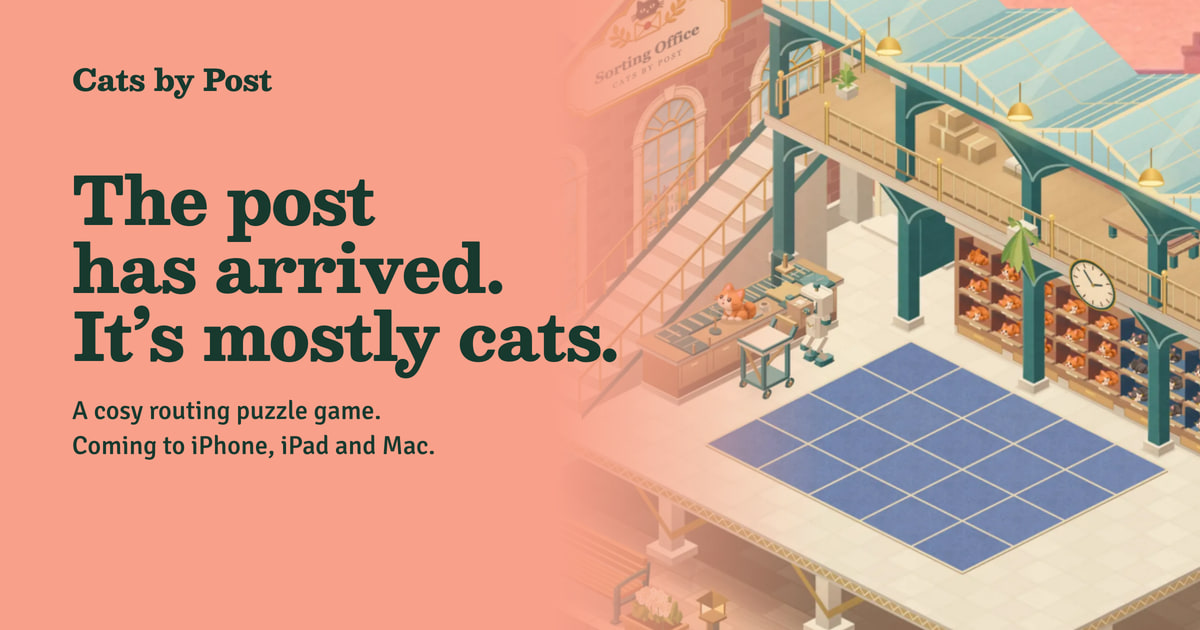
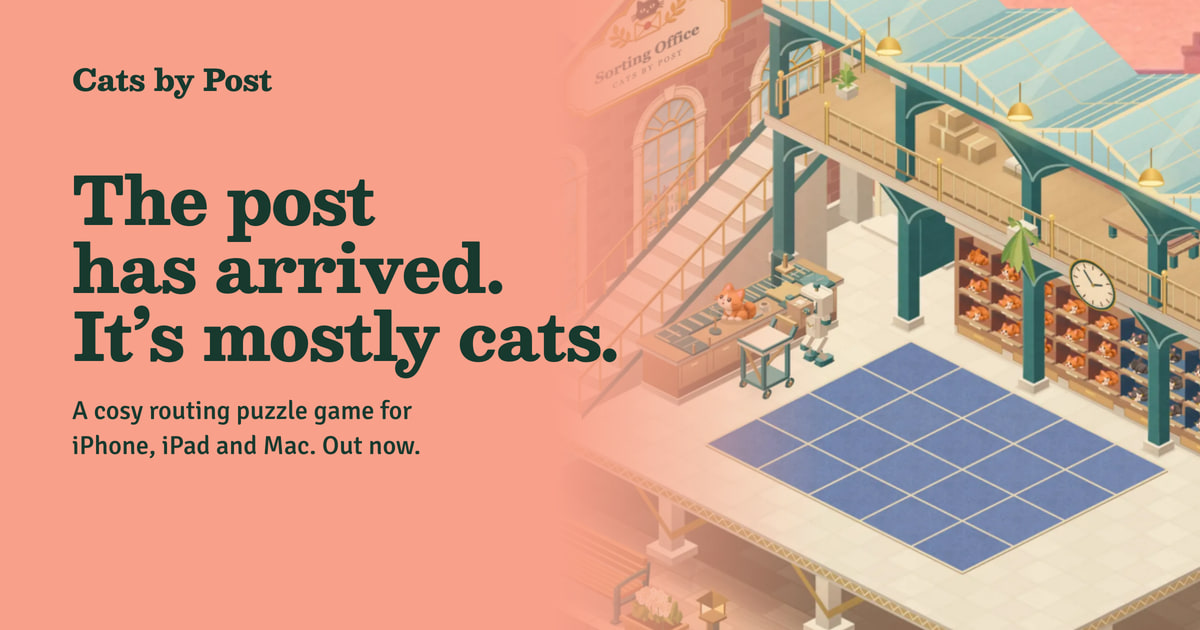
feat(catsbypost): the game is out, so the page sends people to the App Store
Cats by Post 1.0 was released on 25 November 2026. The page still said
"Coming to iPhone, iPad and Mac" and its store link went to a placeholder
line at the foot.

- STORE_URL (src/lib/catsbypost.ts) is the App Store address, written
  without a country so Apple sends each visitor to their own storefront.
- The wordmark row's note is now a link, "On the App Store"; it stays on
  phones from 360px wide and adds no height to the row.
- "Get the game", shown after the last puzzle, goes to the App Store.
- The close says "Out now for iPhone, iPad and Mac" above a filled
  "Get it on the App Store" link.
- The roster entry is `live`, so the home page says Live.
- The share card is reprinted with "Out now."
- The policy says Apple handles the purchase (the game is paid), and is
  dated 27 November 2026.

Changed region(s): [[0.0617, 0.6937, 0.37, 0.7238], [0.3083, 0.6333, 0.3392, 0.6635]]

diff --git a/tests/catsbypost.test.ts b/tests/catsbypost.test.ts
@@ -9,6 +9,7 @@ import {
   SEASONS,
   STAFF,
   STOPS,
+  STORE_URL,
   SUPPORT_PATH,
   TURNTABLES,
   townAt,
@@ -110,7 +111,7 @@ test('nothing hidden is un-hidden by a display rule', () => {
 
 test('the film and the store link work without the script', () => {
   assert.match(page, /<a class="link" href=\{`\$\{ASSETS\}\/film\.mp4`\} data-film>/);
-  assert.match(page, /<a class="play__btn play__btn--main" href="#release" data-store hidden>/);
+  assert.match(page, /<a class="play__btn play__btn--main" href=\{STORE_URL\} data-store hidden>/);
   assert.match(page, /<section class="close" id="release">/);
 });
 
@@ -185,4 +186,18 @@ test('both Cats by Post pages end in the foot that links the policy, and /privac
   }
   // The policy is the first thing in the document, so the forward needs no fragment.
   assert.ok(docText.indexOf('id="privacy"') < docText.indexOf('id="support"'));
+});
+
+/* ---- Released --------------------------------------------------------------- */
+test('the game is out: every way to it is the App Store, and nothing still says it is coming', () => {
+  // No country in the address, so Apple sends each visitor to their own storefront.
+  assert.equal(STORE_URL, 'https://apps.apple.com/app/cats-by-post/id6834231907');
+  // the wordmark row, the docket after the last puzzle, and the close
+  assert.equal(page.match(/href=\{STORE_URL\}/g)?.length, 3);
+  for (const [name, text] of [['page', page], ['policy', doc], ['share card', read('scripts/catsbypost-share-card.mjs')]] as const) {
+    assert.doesNotMatch(text, /Coming to|release day/, `the ${name} still says the game is coming`);
+  }
+  assert.match(read('src/content/apps/catsbypost.yaml'), /^status: live$/m);
+  // the wordmark row's link is the one thing in it a phone keeps
+  assert.match(css, /\.mast span\.small \{ display: none; \}/);
 });

diff --git a/src/styles/catsbypost.css b/src/styles/catsbypost.css
@@ -251,6 +251,14 @@ main { --sky: var(--sunset); transition: --sky .7s var(--ease); }
 .close h2 span { display: block; }
 .soon { display: grid; gap: 4px; padding-top: clamp(18px, 2vw, 26px); border-top: 2px solid #56608c; }
 .soon span { color: var(--paper-dim); }
+/* The one filled action off the board: the docket's pill, in paper on the night. */
+.soon .get { justify-self: start; margin-top: 12px; padding: 14px 22px; border-radius: 999px; background: var(--paper); color: var(--night-deep); font-weight: 600; font-size: 1rem; line-height: 1; text-decoration: none; transition: background .15s; }
+.soon .get:hover { background: var(--lamp); }
+.soon .get:active { transform: translateY(1px); }
+/* The way to the shop stays in the wordmark row on a phone. */
+.mast a.small { display: inline-block; padding-block: 9px; margin-block: -9px; }
+/* Narrower than this it would take a line of its own, and the floor would start lower. */
+@media (max-width: 359px) { .mast a.small { display: none; } }
 
 .foot { background: var(--night-deep); color: var(--paper-dim); font-size: .95rem; }
 .foot .wrap { display: flex; justify-content: space-between; gap: 8px 32px; flex-wrap: wrap; padding-block: 22px; border-top: 2px solid #2a3260; }
@@ -275,7 +283,7 @@ dialog video { width: 100%; aspect-ratio: 4 / 3; background: #000; }
 @media (max-width: 720px) {
   /* A phone's first screen is the headline and the floor. */
   .mast { padding-top: 14px; }
-  .mast .small { display: none; }
+  .mast span.small { display: none; }
   .cbp-hero__top { padding-top: 14px; gap: 10px; }
   .cbp-hero h1 { font-size: clamp(1.9rem, 9.4vw, 2.6rem); }
   .cbp-hero .lede { font-size: 1.02rem; line-height: 1.4; }

diff --git a/src/lib/catsbypost.ts b/src/lib/catsbypost.ts
@@ -14,6 +14,10 @@ export const ASSETS = '/shots/catsbypost';
    (public/_redirects), for the field that asks for a policy: the policy is
    the document's first section. */
 export const SUPPORT_PATH = '/catsbypost/support/';
+
+/* The game on the App Store (released 25 November 2026). Written without a
+   country, so Apple sends each visitor to their own storefront. */
+export const STORE_URL = 'https://apps.apple.com/app/cats-by-post/id6834231907';
 export const PRIVACY_PATH = '/catsbypost/privacy/';
 
 export interface Stop {
